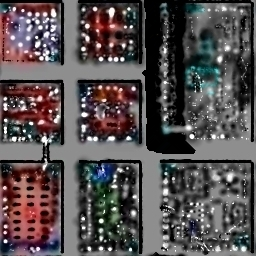
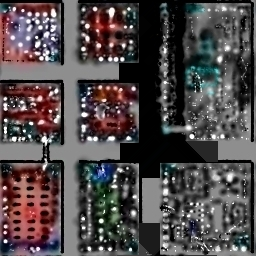
MU2_BGFX: the Lost Tower's lava floods the gaps right to the next floor -- the user, of the 10-tile spill: 'still lava cuted', 'laav suppost to fill whole left corner screen', 'there is still void there not lava'. The spill stopped halfway across each gap, where another floor's edge was the nearer g

Changed region(s): [[0.4375, 0.0, 0.875, 0.7188], [0.5312, 0.8438, 0.625, 1.0], [0.7188, 0.9688, 0.8438, 1.0]]

diff --git a/pipeline/terrain.py b/pipeline/terrain.py
@@ -179,16 +179,16 @@ VOID_BY_MAP = {
     4: {"start": 0.1, "depth": 1.6, "rim": True, "blend": 2.0},
 }
 
-#: How far a world's lava spills into its void, in tiles. Ours, marked: MU framed its maps for a
+#: How far a world's lava floods its void, in tiles. Ours, marked: MU framed its maps for a
 #: 4:3 screen, and the Lost Tower's long lava field (floor 1's east strip, 150-185 x 0-140)
 #: ends in a hard line against the black where MU's camera never looked; at 16:9 and pulled
 #: back, that line is on screen (the user, 2026-10-01: 'we need find a way how we can expand
-#: lava zones, because this game was made 25 years ago for 4:3 monitors'). A void tile whose
-#: nearest ground is lava, within this many tiles, becomes that lava tile again -- its sheet,
-#: height, painted light and flags, so it is as unwalkable as the lava it extends. It stops
-#: halfway across a gap, where another floor's edge is the nearer ground, and the void's own
-#: blend (VOID_BY_MAP) takes its far edge to black.
-LAVA_SPILL_BY_MAP = {4: 10}
+#: lava zones, because this game was made 25 years ago for 4:3 monitors'). Every void tile
+#: within this many tiles of lava, walking through the void alone, becomes the nearest lava
+#: tile again -- its sheet, height, painted light and flags, so it is as unwalkable as the lava
+#: it extends. It fills the gaps right up to the next floor's edge: stopping halfway left the
+#: black on screen (the user: 'laav suppost to fill whole left corner screen').
+LAVA_SPILL_BY_MAP = {4: 32}
 
 #: The slot MU's lava (TileWater01) sits in.
 LAVA_SLOT = 5
@@ -196,11 +196,11 @@ LAVA_SLOT = 5
 
 def spill_lava(reach: int, void: np.ndarray, layer1: np.ndarray, layer2: np.ndarray,
                alpha: np.ndarray) -> tuple[np.ndarray, np.ndarray]:
-    """Which void tiles the lava spills into, and the lava tile each copies, as flat indices.
+    """Which void tiles the lava floods, and the lava tile each copies, as flat indices.
 
-    A breadth-first walk out from every tile with ground, eight ways, so each void tile learns
-    which ground it reaches first and how far that is; the ones that reach lava first, within
-    `reach`, spill. On the [y, x] grid every plane here shares.
+    A breadth-first walk out from every lava tile, eight ways, through void tiles alone, so a
+    floor's ground stops it and a gap between floors fills to the far edge. On the [y, x]
+    grid every plane here shares.
     """
     from collections import deque
 
@@ -209,7 +209,7 @@ def spill_lava(reach: int, void: np.ndarray, layer1: np.ndarray, layer2: np.ndar
     distance = np.full(void.shape, np.iinfo(np.int32).max, dtype=np.int64)
     source = np.full(void.shape, -1, dtype=np.int64)
     queue = deque()
-    for y, x in zip(*np.nonzero(~void)):
+    for y, x in zip(*np.nonzero(lava)):
         distance[y, x] = 0
         source[y, x] = y * size_x + x
         queue.append((y, x))
@@ -221,14 +221,12 @@ def spill_lava(reach: int, void: np.ndarray, layer1: np.ndarray, layer2: np.ndar
         for dy in (-1, 0, 1):
             for dx in (-1, 0, 1):
                 ny, nx = y + dy, x + dx
-                if 0 <= ny < size_y and 0 <= nx < size_x and distance[ny, nx] > step:
+                if 0 <= ny < size_y and 0 <= nx < size_x and void[ny, nx] \
+                        and distance[ny, nx] > step:
                     distance[ny, nx] = step
                     source[ny, nx] = source[y, x]
                     queue.append((ny, nx))
-    reached = void & (source >= 0)
-    from_lava = np.zeros(void.shape, dtype=bool)
-    from_lava[reached] = lava.reshape(-1)[source[reached]]
-    spilled = np.flatnonzero(from_lava)
+    spilled = np.flatnonzero(void & (source >= 0))
     return spilled, source.reshape(-1)[spilled]
 
 
